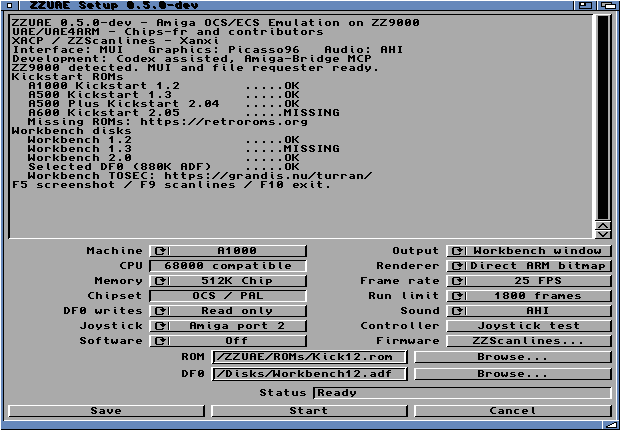
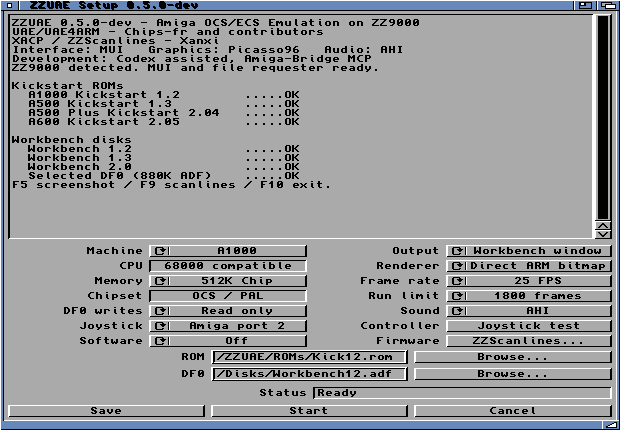
Refresh launcher check layout and media verification screenshot

diff --git a/amiga/uae4arm/launcher.c b/amiga/uae4arm/launcher.c
@@ -156,6 +156,7 @@ static void open_scanlines(void){
 }
 static void check_roms(void){
     unsigned i,missing=0;
+    note("");
     note("Kickstart ROMs");
     for(i=0;i<4;i++)missing+=check_rom(i,config.roms[i]);
     if(missing)note("  Missing ROMs: https://retroroms.org");
@@ -182,6 +183,7 @@ static void check_disks(void){
     static const char *names[]={"Workbench12.adf","Workbench13.adf","Workbench20.adf"};
     static const char *labels[]={"Workbench 1.2","Workbench 1.3","Workbench 2.0"};
     char name[ZU_PATH];unsigned i,missing=0;
+    note("");
     note("Workbench disks");
     for(i=0;i<3;i++){
         if(path(name,"Disks") && AddPart(name,(STRPTR)names[i],sizeof(name)))missing+=check_disk(labels[i],name,1);

diff --git a/docs/verification/README.md b/docs/verification/README.md
@@ -18,8 +18,12 @@
 - The GUI launch completed 1800 guest / 900 displayed frames and clean teardown.
   Opening and loading splashes were captured on Workbench; loading closed at
   first-frame readiness. Native ColorIcon installation verified the saved icon.
-- The ROM/disk log showed Kickstart 1.2/1.3/2.04 OK, 2.05 MISSING;
-  Workbench 1.2/2.0 OK, 1.3 MISSING, selected DF0 OK.
+- After installing the supplied A600 ROM and Workbench 1.3 disks, the refreshed
+  launcher reports all four Kickstart slots and Workbench 1.2/1.3/2.0 OK.
+  The updated launcher screenshot records these file checks, not a new guest
+  boot test. A600 boot/game validation remains pending.
+- The installed 60,464-byte launcher adds blank rows before the ROM and
+  Workbench checks. Its build manifest identifies this 0.5.0-dev rebuild.
 - The bundled scanline installer preserved both existing system utilities.
   The launcher opened ZZScanlines V2.2; it was closed without Apply.
 - Parent-workspace `make test-amiga-arm test-amiga` passed.

diff --git a/CHANGELOG.md b/CHANGELOG.md
@@ -8,7 +8,7 @@ development version. Core/transport protocol identifiers remain independent.
 ## 0.5.0-dev
 
 - Bundled Xanxi ZZScanlines utilities and an install-missing helper; launcher opens system or bundled control panel.
-- Startup credits and aligned media-check columns in the dialog log.
+- Startup credits and aligned media-check columns in the dialog log, with blank rows separating ROM and Workbench checks.
 - F5 captures the held game frame to a 24-bit BMP in Screenshots beside the player.
 - Software scanlines adapted from ZZDosBox: Off, Soft, Smooth and Hard; F9 cycles them.
 - Saved launcher scanline setting, applied by the ARM during presentation.

diff --git a/amiga/uae4arm/CHANGELOG.md b/amiga/uae4arm/CHANGELOG.md
@@ -8,7 +8,7 @@ development version. Core/transport protocol identifiers remain independent.
 ## 0.5.0-dev
 
 - Bundled Xanxi ZZScanlines utilities and an install-missing helper; launcher opens system or bundled control panel.
-- Startup credits and aligned media-check columns in the dialog log.
+- Startup credits and aligned media-check columns in the dialog log, with blank rows separating ROM and Workbench checks.
 - F5 captures the held game frame to a 24-bit BMP in Screenshots beside the player.
 - Software scanlines adapted from ZZDosBox: Off, Soft, Smooth and Hard; F9 cycles them.
 - Saved launcher scanline setting, applied by the ARM during presentation.

diff --git a/README.md b/README.md
@@ -72,7 +72,8 @@ frame capture; Alien Syndrome is shown in the live Workbench window.
 ## Status
 
 A1000, A500 and A500 Plus boot checks passed on hardware. A600 is model-tested;
-matching Kickstart 2.05 hardware validation remains pending. The A1000 profile
+Kickstart 2.05 now passes the launcher’s file checks, but A600 boot/game
+validation on hardware remains pending. The A1000 profile
 uses a preloaded ROM rather than the original disk-bootstrap sequence.
 
 This is a bounded prototype: fullscreen, unlimited play, disk swapping,
